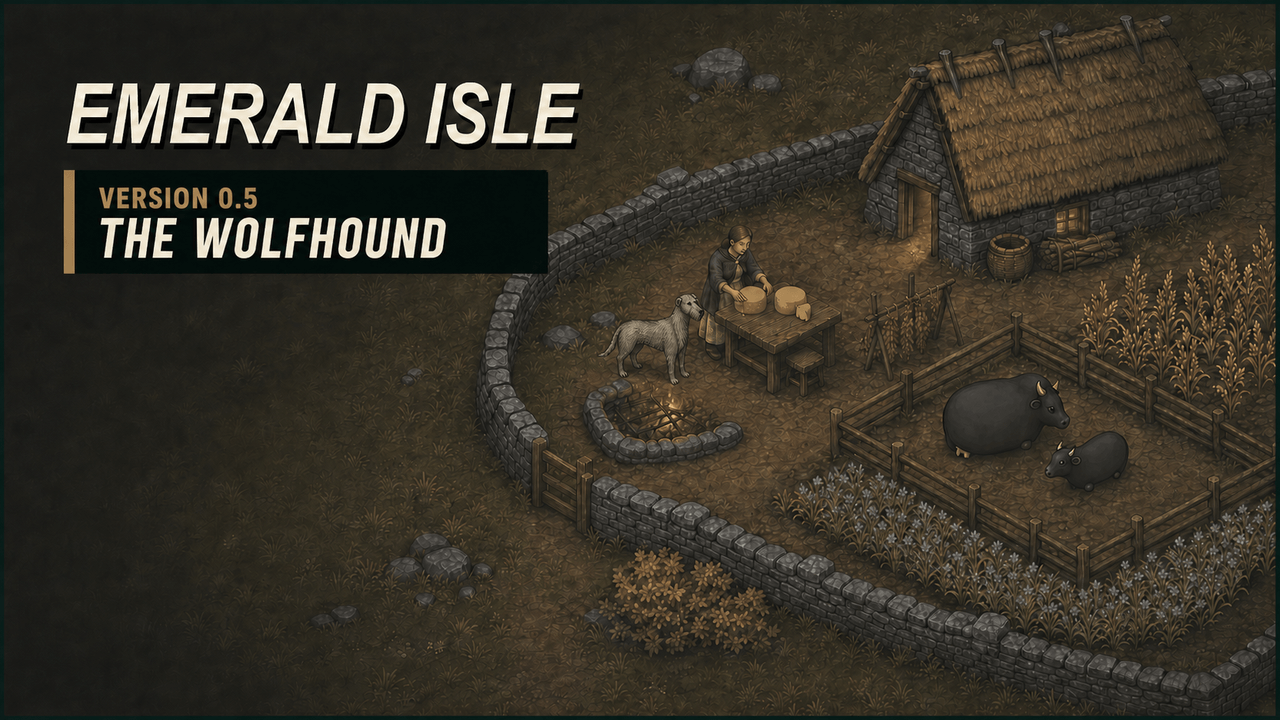
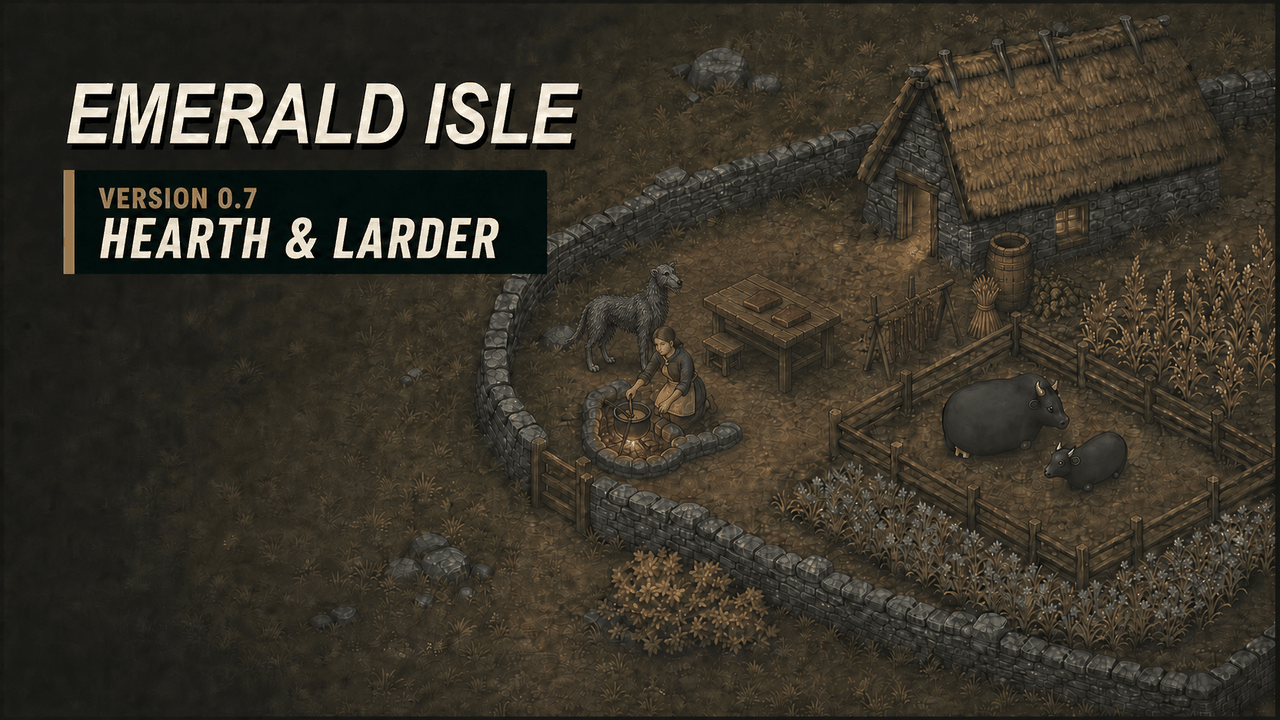
art: update Version 0.7 Workshop preview

diff --git a/docs/release/steam-workshop-listing.md b/docs/release/steam-workshop-listing.md
@@ -1,84 +1,83 @@
 # Steam Workshop Listing
 
-**Status:** Version 0.6.3 release listing input<br>
+**Status:** Version 0.7.1 release listing input<br>
 **Workshop item:** [Emerald Isle 3763433723](https://steamcommunity.com/sharedfiles/filedetails/?id=3763433723)<br>
-**Current release:** `v0.6.3` - Bulk Oat Milling<br>
+**Target release:** `v0.7.1` - Hearth, Larder, and Hospitality<br>
 **Publication owner:** Patrick Mee
 
 Steam listing text is managed separately from `About/About.xml`. The description
-below is the approved Version 0.6.3 replacement input. Publish it only with the
-exact staged v0.6.3 GitHub release artifact.
+below is the approved Version 0.7.1 replacement input. Publish it only with the
+exact staged v0.7.1 GitHub release artifact.
 
 ## Description
 
 ```text
 Emerald Isle is a lore-friendly RimWorld expansion inspired by Irish history, archaeology, material culture, language, and mythology.
 
-[h1]Version 0.6.3 - Bulk Oat Milling[/h1]
+[h1]Version 0.7.1 - Hearth, Larder, and Hospitality[/h1]
 
-Version 0.6.2 adds linen alternatives for the vanilla flak vest, flak pants,
-flak jacket, industrial medicine, and Molotov cocktail recipes. The original
-Cloth bills and normal vanilla item stats remain unchanged.
+Version 0.7 makes the central hearth a more durable part of a developed colony.
+The hearth cooks faster, burns less wood, casts more light, allows fuel ejection,
+and supports the vanilla Flame meditation pattern while retaining its heat and
+gathering role.
 
-Version 0.6.3 adds an optional x4 hand-quern bill that mills 40 raw oats into 40
-milled oats with exact linear labor and no efficiency bonus. The original
-single-batch bill remains available.
+New Cooking 4 bills turn raw meat into a deliberately inefficient simple-tier
+reserve that lasts 30 days unrefrigerated. After Beer brewing research, the hearth
+can also combine raw oats and hops into vanilla wort for fermentation in vanilla
+barrels. This adds no new alcohol, barrel, fermentation system, or research.
 
-Version 0.6 adds vanilla-style x4 cooking bills for oat porridge and oat
-flatbread. The bills reduce repetitive setup while preserving exact per-unit
-ingredients, labor, output, and food behavior.
-
-Version 0.5 adds the wolfhound, a fast domestic coursing and combat companion. It can be trained to guard and attack but cannot rescue, haul, carry caravan cargo, patrol, hunt, or protect livestock autonomously. It costs more to feed and adds more colony wealth than ordinary utility dogs. The mod remains vanilla-friendly, XML-only, and focused on practical choices rather than strict upgrades.
+Version 0.7.1 replaces the older Workshop banner with the approved Hearth & Larder
+image. Gameplay is unchanged from v0.7.0.
 
 [h1]Current content[/h1]
 
 [list]
-[*][b]Oats[/b] - A medium-cycle grain crop with a hand-quern processing chain for milled oats, oat porridge, and oat flatbread.
-[*][b]Oat bulk cooking[/b] - Optional x4 porridge and flatbread bills at the Campfire, central hearth, fueled stove, and electric stove, with exact linear scaling and no efficiency bonus.
-[*][b]Bulk oat milling[/b] - Optional x4 hand-quern bill for 40 raw oats -> 40 milled oats, with exact linear scaling and no efficiency bonus.
+[*][b]Oats[/b] - A medium-cycle grain crop with hand-quern milling, oat porridge, oat flatbread, and exact-linear x4 production bills.
 [*][b]Dry-stone wall[/b] - A material-efficient linked stone wall with original artwork.
-[*][b]Flax and linen[/b] - Ground-grown flax is harvested as raw flax and processed into linen at vanilla work locations. Linen is a general Fabric with a warm-weather niche and lower durability than cloth.
+[*][b]Flax and linen[/b] - A household textile path whose finished linen favors warm-weather clothing and can substitute in selected vanilla recipes.
 [*][b]Linen tunic[/b] - A linen-only everyday garment with original ground and worn artwork.
-[*][b]Brat cloak[/b] - A Fabric-stuffable shell-layer cloak with a wool-optimal cold-weather niche, low armor, and original art for all supported body types and directions.
-[*][b]Central hearth[/b] - A stone-stuffable, continuously fueled household hearth providing heat, light, gathering-spot behavior, campfire-grade cooking, and Emerald Isle oat-food bills.
+[*][b]Brat cloak[/b] - A cheap shell-layer cloak with strong cold insulation in wool, adequate warmth in cloth, and much less warmth in linen.
+[*][b]Central hearth[/b] - A permanent stone household hearth providing heat, light, gathering, Flame meditation, fuel control, and slower cooking without electricity.
+[*][b]Smoked meat[/b] - A hearth-only, Cooking 4 reserve food with a 30-day unrefrigerated shelf life and fresh-meal-friendly selection priority.
+[*][b]Oat wort[/b] - A researched hearth recipe using 20 raw oats and 5 hops to make 5 vanilla wort for vanilla barrel fermentation.
 [*][b]Kerry cattle[/b] - Small, hardy dairy cattle with lower feed use and milk output per animal than vanilla cows.
-[*][b]Farmhouse cheese[/b] - A 35-day milk preserve made at the central hearth or vanilla fueled/electric stoves.
+[*][b]Farmhouse cheese[/b] - A 35-day milk preserve made at the central hearth or vanilla fueled and electric stoves.
 [*][b]Wolfhound[/b] - A fast, rough-coated domestic fighter with Intermediate Guard and Attack training, limited utility, high food cost, and uncommon trader availability.
 [/list]
 
 [h1]Compatibility[/h1]
 
-[b]Requires RimWorld 1.6 Core.[/b] No DLC is required. Royalty, Ideology, Biotech, Anomaly, and Odyssey are supported. Odyssey adds Attack Target training to the wolfhound through the vanilla combat-canine pattern; it does not add Comfort.
+[b]Requires RimWorld 1.6 Core.[/b] No DLC is required. Royalty, Ideology, Biotech, Anomaly, and Odyssey are supported. Odyssey adds Attack Target training to the wolfhound through the vanilla combat-canine pattern.
 
-Existing saves can add the Version 0.6.3 content without custom migration or serialized state. Back up important saves before changing any mod list.
+Existing saves can add Version 0.7.1 without custom migration. Back up important saves before changing any mod list.
 
-[url=https://github.com/PatrickMee/emerald-isle/blob/main/docs/release/v0.6.3.md]Version 0.6.3 release notes[/url]
+[url=https://github.com/PatrickMee/emerald-isle/blob/main/docs/release/v0.7.1.md]Version 0.7.1 release notes[/url]
 ```
 
-## Detailed Version 0.6.3 Change Note
+## Detailed Version 0.7.1 Change Note
 
 ```text
-Version 0.6.3 - Bulk Oat Milling
+Version 0.7.1 - Version 0.7 Workshop Preview
 
-Added:
-- A vanilla-style x4 hand-quern bill: 40 raw oats -> 40 milled oats at 720 work.
+Updated:
+- Replaced the older Version 0.5 Workshop banner with the approved Version 0.7
+  Hearth & Larder image.
+- The new banner highlights the improved central hearth, household provisioning,
+  Kerry cattle, and wolfhound while preserving the established holding style.
 
-Role and balance:
-- The bill scales the existing 180 work exactly fourfold and keeps the same
-  Crafting labor, effect, sound, and learning factor.
-- The original single-batch milling bill and all existing oat-food stats remain
-  unchanged.
+Gameplay:
+- Unchanged from Version 0.7.0.
 
 Compatibility:
 - Requires RimWorld 1.6 Core; no DLC or other mod is required.
-- Existing saves can add this content without custom migration.
+- Existing saves remain compatible.
 
 Full release notes:
-https://github.com/PatrickMee/emerald-isle/blob/main/docs/release/v0.6.3.md
+https://github.com/PatrickMee/emerald-isle/blob/main/docs/release/v0.7.1.md
 ```
 
 ## Verification
 
 After publication, record the public Steam manifest, update time, byte total,
-and independent subscriber verification against the exact v0.6.3 GitHub
-artifact here or on the merged release PR.
+replacement preview, and independent subscriber verification against the exact
+v0.7.1 GitHub artifact here or on the merged release PR.

diff --git a/docs/art/assets/workshop-preview-v0.7.md b/docs/art/assets/workshop-preview-v0.7.md
@@ -1,0 +1,68 @@
+# Version 0.7 Steam Workshop Preview Asset Record
+
+**Status:** Maintainer accepted; publication pending<br>
+**Release candidate:** v0.7.1 - Version 0.7 Workshop Preview<br>
+**Production date:** 2026-08-23<br>
+**Human acceptance owner:** Patrick Mee<br>
+**Human acceptance date:** 2026-08-23
+
+## Art Brief
+
+The Version 0.7 preview preserves the established wide isometric holding, quiet
+left-side title field, dry-stone enclosure, thatched cottage, crops, Kerry cattle,
+and domestic wolfhound. The household focus moves to the warmly lit central
+hearth: a colonist tends the fire, preserved meat rests on the worktable, and oats,
+hops, and a plain wooden fermenting barrel suggest the alternate route into vanilla
+wort and beer without depicting a new brewing system or drinking scene.
+
+The rough-coated iron-grey wolfhound remains beside the colonist and outside the
+cattle pen. The exact release typography reads `EMERALD ISLE`, `VERSION 0.7`, and
+`HEARTH & LARDER`.
+
+## Provenance and License
+
+OpenAI's built-in image-generation tool produced an original edit using the
+project-owned Version 0.5 preview as the scene, composition, and style reference.
+The first pass established the Version 0.7 hearth-and-larder scene and exact text.
+A second constrained pass changed only the dog to restore the approved rough-coated
+wolfhound silhouette, again using the Version 0.5 preview as the identity reference.
+
+No RimWorld screenshot, Core-art pixel, third-party image, or unsupported asset was
+copied or composited into the preview. The generated source is a local production
+intermediate and is not a runtime dependency or committed source-art file. The
+preview is governed by
+[`CREATIVE_ASSETS_LICENSE.md`](../../../CREATIVE_ASSETS_LICENSE.md).
+
+## Runtime Export
+
+Pillow 11.0.0 fitted the selected 1672x941 RGB source to 1280x720 with Lanczos
+resampling, converted it to a 256-color indexed palette with median-cut
+quantization and Floyd-Steinberg dithering, and wrote an optimized level-9 PNG.
+
+| Asset | Package path | Dimensions | Size | SHA-256 |
+|---|---|---:|---:|---|
[1 lines of base64/hex data omitted]
+
+## Acceptance Targets
+
+- exact title text remains legible at full size and 400x225 thumbnail size;
+- the central hearth is the scene's warm focal point without implying a separate
+  smoker, brewing system, or drinking mechanic;
+- preserved meat, oats, hops, and the fermenting barrel remain secondary household
+  details rather than clutter;
+- the rough-coated grey hound reads as the approved wolfhound and remains outside
+  the livestock pen;
+- the cottage, walls, cattle, fields, grounded palette, and isometric composition
+  preserve continuity with the established holding;
+- production staging preserves `About/Preview.png`, excludes production
+  intermediates, stays below Steam's one-megabyte preview ceiling, and retains
+  Workshop ID `3763433723`; and
+- the public Workshop page must show the replacement before this record is marked
+  published.
+
+## Review Disposition
+
+Patrick Mee approved the Version 0.7 image after reviewing the full-size candidate
+on 2026-08-23. Automated inspection confirms the exact dimensions, indexed PNG
+format, file-size ceiling, typography, thumbnail readability, and SHA-256. Public
+Workshop publication and signed-out verification remain release-gate work.
